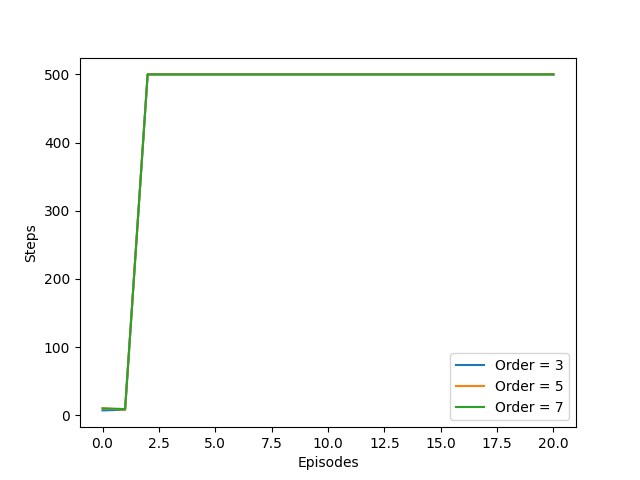
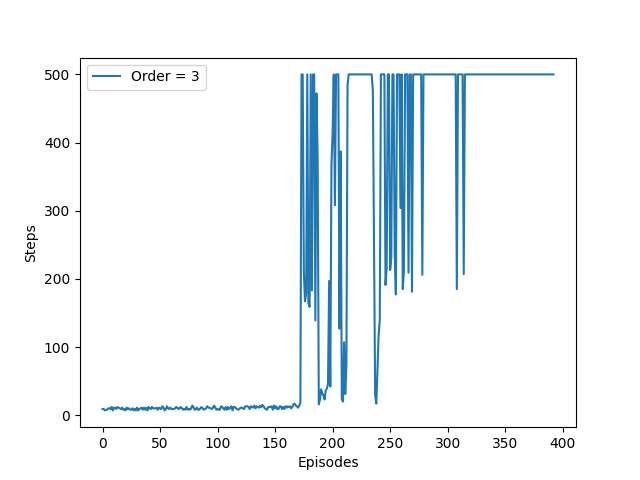
...

diff --git a/PA4/SarsaLambda.py b/PA4/SarsaLambda.py
@@ -20,6 +20,9 @@ class SarsaLambda:
         self.num_basis = None
         self.basis = None
         self.alphas = None
+        self.S = None
+        self.A = None
+        self.z = None
         self.best_steps = 0
 
         self.setFourier(order)
@@ -73,35 +76,30 @@ class SarsaLambda:
         phi = np.array([feature(self.model.normalize(S)) for feature in self.basis])
         return float(np.dot(self.weights[:, A], phi))
 
-    def learnEpisode(self, episode: int = 0, animate: bool = False) -> int:
-        self.model.reset()
-        if animate:
-            self.model.animate(episode, 0, self.max_steps)
-        S = self.model.getState()
-        A = self.getAction(S)
-        z = np.zeros((self.num_basis, self.model.action_space.n))
+    def newEpisode(self):
+        self.S = self.model.reset()
+        self.A = self.getAction(self.S)
+        self.z = np.zeros((self.num_basis, self.model.action_space.n))
 
-        for steps in range(self.max_steps):
-            phi = np.array([feature(self.model.normalize(S)) for feature in self.basis])
+    def step(self):
+        phi = np.array([feature(self.model.normalize(self.S)) for feature in self.basis])
 
-            z[:, A] += phi  # accumulating traces
-            S_p, R, terminated = self.model.step(A)
-            if animate:
-                self.model.animate(episode, steps + 1, self.max_steps)
-            delta = R - self.value(S, A)
+        self.z[:, self.A] += phi  # accumulating traces
+        S_p, R, terminated = self.model.step(self.A)
+        delta = R - self.value(self.S, self.A)
 
-            if terminated:
-                self.weights += delta * z * self.alphas
-                return steps + 1
+        if terminated:
+            self.weights += delta * self.z * self.alphas
+            return True
 
-            A_p = self.getAction(S_p)
-            delta += self.gamma * self.value(S_p, A_p)
-            self.weights += delta * z * self.alphas
-            z *= self.gamma * self.lam
-            S = S_p
-            A = A_p
+        A_p = self.getAction(S_p)
+        delta += self.gamma * self.value(S_p, A_p)
+        self.weights += delta * self.z * self.alphas
+        self.z *= self.gamma * self.lam
+        self.S = S_p
+        self.A = A_p
 
-        return self.max_steps
+        return False
 
     def playEpisode(self, episode: int = 0) -> int:
         self.model.reset()

diff --git a/PA4/run_me.py b/PA4/run_me.py
@@ -15,7 +15,7 @@ MAX_STEPS = 500
 
 def learn(animate):
     model = CartPole()
-    orders = [3, 5, 7]
+    orders = [3]
     last = np.zeros(len(orders), dtype=int)
     steps = np.zeros((len(orders), MAX_EPISODES))
 
@@ -24,7 +24,21 @@ def learn(animate):
         sarsa_lam = sl(model, LAMBDA, ALPHA, GAMMA, EPSILON, order, MAX_STEPS)
 
         for episode in tqdm(range(MAX_EPISODES), desc=f'Learning Fourier SARSA(Lambda) O({order})', ncols=100):
-            steps[i, episode] = sarsa_lam.learnEpisode(episode, animate)
+            sarsa_lam.newEpisode()
+            if animate:
+                model.animate(episode, 0, MAX_STEPS)
+
+            for step in range(MAX_STEPS):
+                terminated = sarsa_lam.step()
+                if animate:
+                    model.animate(episode, step + 1, MAX_STEPS)
+
+                if terminated:
+                    steps[i, episode] = step + 1
+                    break
+            else:
+                steps[i, episode] = MAX_STEPS
+
             # Count number of consecutive episodes the pole remains balanced for at least 95% of maximum number of steps
             count += 1 if steps[i, episode] >= 0.95 * MAX_STEPS else -count
 
@@ -64,14 +78,31 @@ def learn(animate):
 
 def play(order):
     weights = np.load(f'weights/O({order})-Weights')['arr_0']
+    model = CartPole()
     # Having a small, non-zero epsilon could be a good way to simulate noise in the environment, if desired
-    sarsa_lam = sl(CartPole(), epsilon=0.05, order=order, weights=weights)
-    episodes = 1
+    sarsa_lam = sl(model, epsilon=0.05, order=order, weights=weights)
+
+    best_steps = 0
+    episode = 1
     while True:
-        sarsa_lam.playEpisode(episodes)
-        episodes += 1
+        sarsa_lam.newEpisode()
+        model.animate(episode, 0, MAX_STEPS)
+
+        steps = 0
+        while True:
+            terminated = sarsa_lam.step()
+            model.animate(episode, steps + 1, MAX_STEPS)
+
+            steps += 1
+            if steps > best_steps:
+                best_steps = steps
+
+            if terminated:
+                break
+
+        episode += 1
 
 
 if __name__ == '__main__':
     # learn(animate=False)
-    play(order=5)
+    play(order=3)
